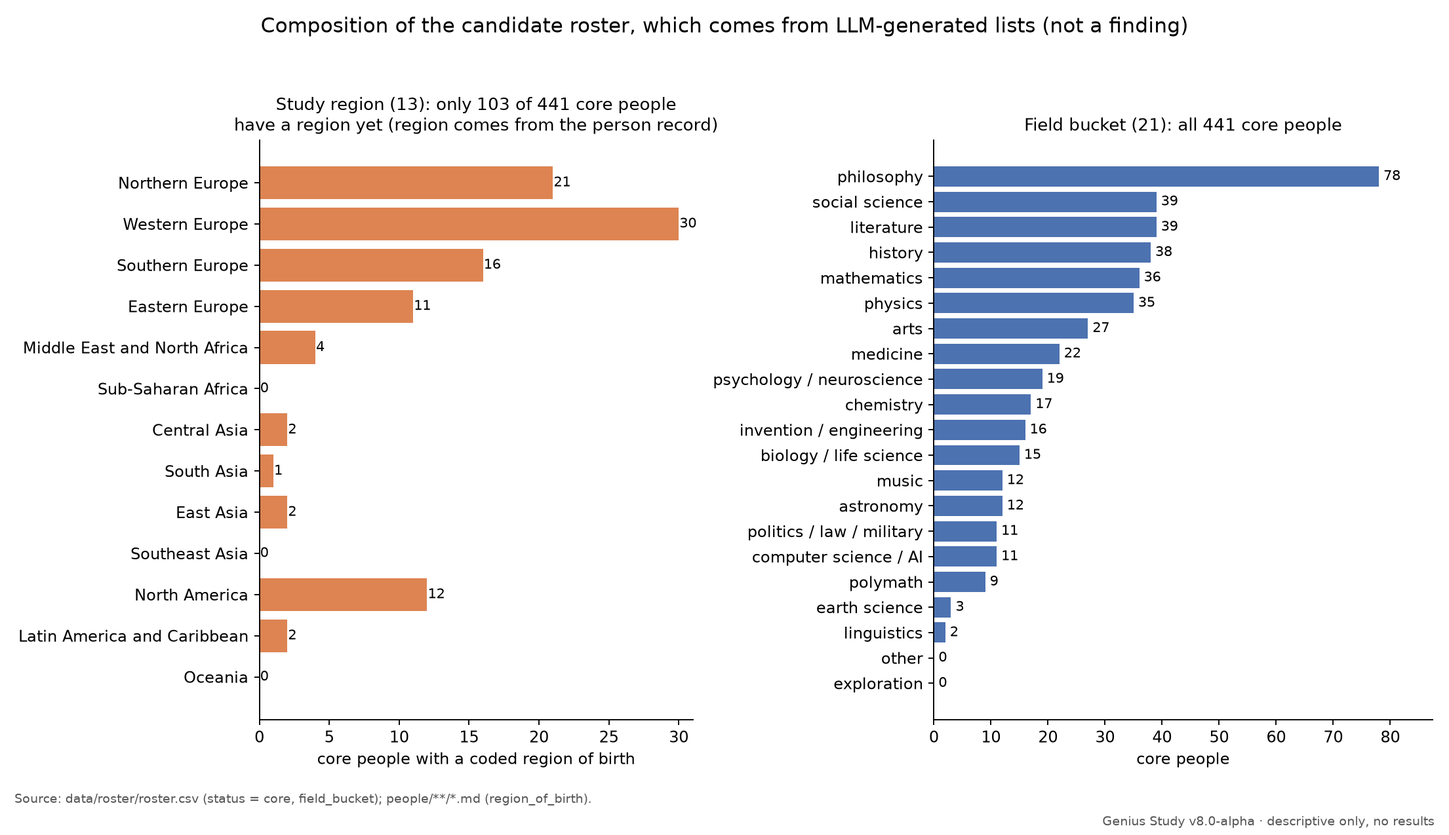
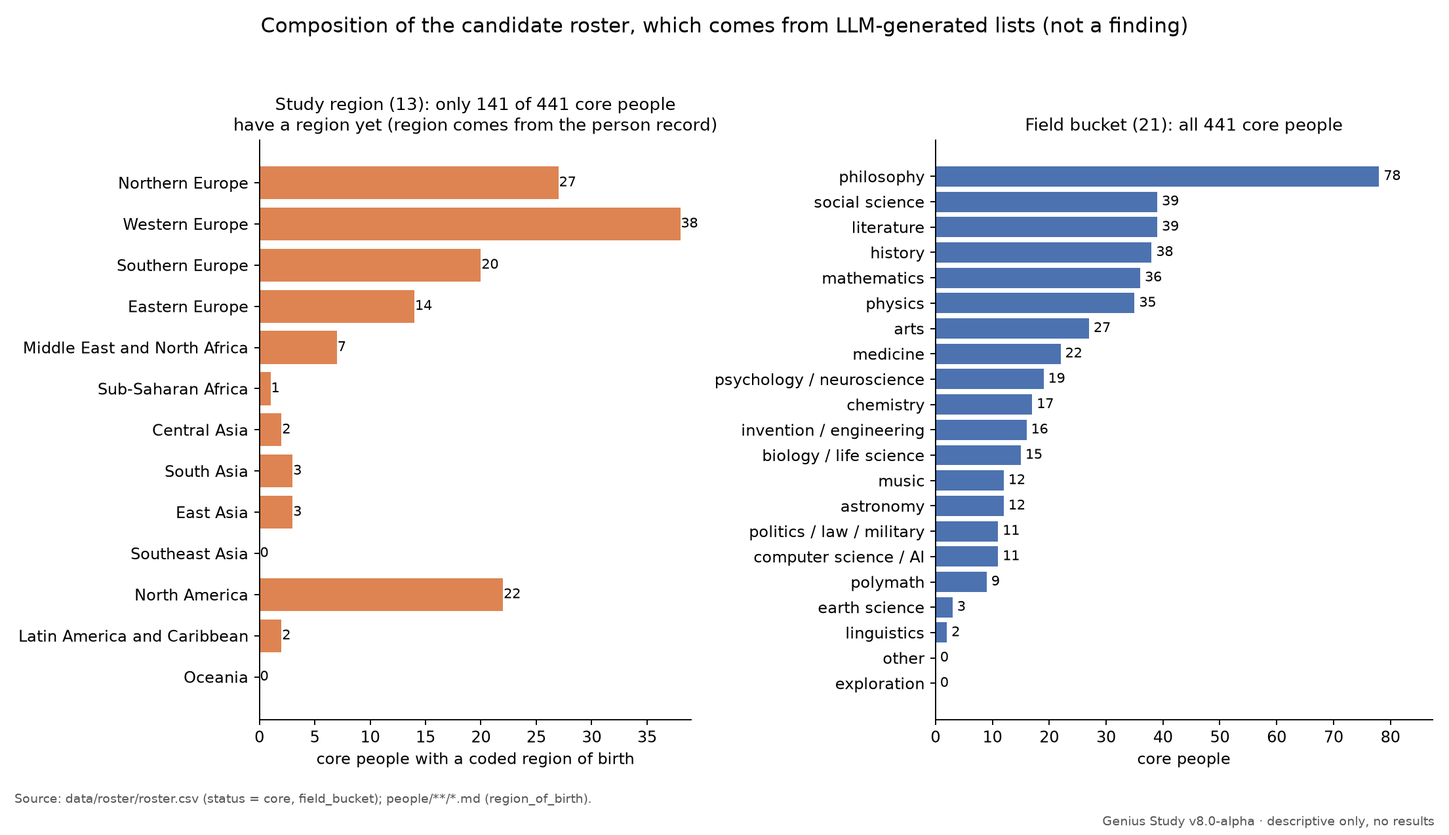
Chart refresh after batch Y (57 plotted, 86 not scorable; figures regenerated, no data change)

diff --git a/scripts/progress_status.py b/scripts/progress_status.py
@@ -38,7 +38,7 @@ AUDITS = ("9 blind lens runs on four batches: 3 on a 115-claim packet (eff4700),
 NEXT_STEPS = ("Stage 3 (everyone else with F ≥ 3) has started: the first 12 records (Spinoza, Descartes, Pascal, Leibniz, Kant, "
               "Hume, Darwin, Gauss, Riemann, Turing, Noether, von Neumann) are drafts that still need to apply P29 and P30 (the stage 3-b six "
               "follow P14–P28 on main; the stage 3-a six also still need P14–P28); the other 79 records follow P14–P28 (schema 1.3) and "
-              "P30's age rule, and their worldview.working_years now equals timing.major_work_period (P30 addendum); under P31 (continuity rule) all 55 values the span audit flagged stand; the strict-period alternative is in reports/period_rule_sensitivity.md; batch C (Wu, Lovelace, Smith, al-Farabi, al-Khwarizmi, Bell) is drafted in P32 order and its blind lens run is applied (P35, P36); batch D (Archimedes, Aristotle, McClintock, Russell, Debussy, Monet) is drafted and its blind audit is applied (P41); batch E (Dante, Euclid, Francis Bacon, Kahlo, Nietzsche, Dostoevsky) is drafted (P40) and its blind audit is applied; batch F (García Márquez, Hopper, Arendt, Poincaré, Hippocrates, Homer) is drafted (P42) and passed its blind audit (15/15 hold; fixes applied); batch G (Hypatia, Stravinsky, Bach, Locke) is drafted (P43) and passed its blind audit (13/13 hold; fixes applied); batch H (Marx, Tolstoy, Leonardo da Vinci, Beethoven) passed its blind audit (6 hold, 1 weaken; fixed); batch I (Wittgenstein, Maimonides, Michelangelo, Tesla) passed its blind audit (8 hold, 2 weaken; fixed); batch J (Omar Khayyam, Picasso, Plato, Raphael) passed its blind audit (10 hold, 3 weaken; fixed); batch K (Rembrandt, Rosalind Franklin, Salvador Dalí, Simone de Beauvoir) passed its blind audit (9 hold, 1 weaken; fixed); batch L (Socrates, Stephen Hawking, Thomas Edison, Tim Berners-Lee) passed its blind audit (10 hold, 1 weaken; fixed); batch M (Vincent van Gogh, Virginia Woolf, William Shakespeare, Wolfgang Amadeus Mozart) passed its blind audit (16 hold, 3 weaken; fixed; RQ1 gave the P42 will-preamble addendum); batch N (Andrew Wiles, Arthur Schopenhauer, B.F. Skinner, Carl Jung) passed its blind audit (17 hold, 5 weaken, 1 fail; fixed; RQ3 gave the P35 addendum on theories of mind and behaviour); batch O (Carl Sagan, Claude Shannon, Confucius, David Hilbert) passed its blind audit (19 hold, 3 weaken, 1 fail; fixed; RQ O1 and O2 gave the P42 and P16 addenda); the chart images were refreshed after batches M–O; batch P (Donald Knuth, Francis Crick, Franz Kafka, Galen) passed its blind audit (39 hold, 6 weaken, 0 fail; fixed; P1–P3 kept Knuth capped at 0.5, Galen B 3, Kafka BELOW_THRESHOLD); batch Q (Georg Wilhelm Friedrich Hegel, Georgia O'Keeffe, Henry Ford, Ibn Khaldun) passed its blind audit (43 hold, 4 weaken, 1 fail; fixed; Knuth span 1968–2023, Jason's call; Jason's ruling puts Hegel at B 2); batch R (Ibn Rushd (Averroes), Jacques Derrida, James Joyce, James Watson) passed its blind audit (39 hold, 4 weaken, 0 fail; fixed; R1 keeps Watson at 0.5: 'lifelong' does not lift the P1 cap); batch S (Jane Austen, Jane Goodall, Jean Piaget, Jean-Jacques Rousseau) passed its blind audit (43 hold, 4 weaken, 1 fail; fixed; S1 keeps Rousseau CHRIST, S2 adds the P42 addendum on adopted characters' words, S3 counts Austen's prayers at 0.5); batch T (Johann Wolfgang von Goethe, John Maynard Keynes, Jonas Salk, Leonhard Euler) is drafted and its blind audit is applied (rulings T1, T2, RQ-AU1); batch U (Martin Heidegger, Martin Luther King Jr., Michel Foucault, Miguel de Cervantes; Louis Pasteur already coded) passed its blind audit (38 hold, 6 weaken, 0 fail; fixed; U2 puts Cervantes BELOW_THRESHOLD; U1 on King's B and Kant's B 3 wait on Jason); batch V (Miles Davis, Milton Friedman, Nelson Mandela, Niccolò Machiavelli) passed its blind audit (42 hold, 6 weaken, 0 fail; fixed; V1 sets Mandela's B UNKNOWN, V2 and V3 keep Machiavelli and Davis as coded); batch W (Nicolaus Copernicus, Pythagoras, Richard Wagner, Roger Penrose; Paul Dirac already coded) passed its blind audit (35 hold, 5 weaken, 0 fail; fixed; W1 keeps Copernicus BELOW_THRESHOLD, W2 adds IDEAL as a lead for Wagner, W3 keeps Penrose ATHE at 0.5); batch X (Samuel Morse, Siddhartha Gautama, Sigmund Freud, Srinivasa Ramanujan) passed its blind audit (45 hold, 7 weaken, 0 fail; fixed; X1 keeps Morse's B BELOW_THRESHOLD, X2 keeps Gautama BELOW_THRESHOLD with BUDDH the lead, X3 makes Freud not a scientist, X4 keeps Ramanujan as coded; Pythagoras's era now UNKNOWN under a strict P39); batch Y (Steve Jobs, Sun Tzu, Terence Tao, Toni Morrison; Thomas Aquinas already coded), the last batch of this run, passed its blind audit (64 hold, 3 weaken, 0 fail; fixed; Y1 and Y2 keep Jobs and Morrison BELOW_THRESHOLD, Y3 makes Tao not a scientist; Sun Tzu's era now UNKNOWN); chart images not yet refreshed; next in order after rank 136: Virgil, Ada Yonath, Akira Kurosawa, Al-Biruni; systems were sourced in batches of six in v7.1 number order "
+              "P30's age rule, and their worldview.working_years now equals timing.major_work_period (P30 addendum); under P31 (continuity rule) all 55 values the span audit flagged stand; the strict-period alternative is in reports/period_rule_sensitivity.md; batch C (Wu, Lovelace, Smith, al-Farabi, al-Khwarizmi, Bell) is drafted in P32 order and its blind lens run is applied (P35, P36); batch D (Archimedes, Aristotle, McClintock, Russell, Debussy, Monet) is drafted and its blind audit is applied (P41); batch E (Dante, Euclid, Francis Bacon, Kahlo, Nietzsche, Dostoevsky) is drafted (P40) and its blind audit is applied; batch F (García Márquez, Hopper, Arendt, Poincaré, Hippocrates, Homer) is drafted (P42) and passed its blind audit (15/15 hold; fixes applied); batch G (Hypatia, Stravinsky, Bach, Locke) is drafted (P43) and passed its blind audit (13/13 hold; fixes applied); batch H (Marx, Tolstoy, Leonardo da Vinci, Beethoven) passed its blind audit (6 hold, 1 weaken; fixed); batch I (Wittgenstein, Maimonides, Michelangelo, Tesla) passed its blind audit (8 hold, 2 weaken; fixed); batch J (Omar Khayyam, Picasso, Plato, Raphael) passed its blind audit (10 hold, 3 weaken; fixed); batch K (Rembrandt, Rosalind Franklin, Salvador Dalí, Simone de Beauvoir) passed its blind audit (9 hold, 1 weaken; fixed); batch L (Socrates, Stephen Hawking, Thomas Edison, Tim Berners-Lee) passed its blind audit (10 hold, 1 weaken; fixed); batch M (Vincent van Gogh, Virginia Woolf, William Shakespeare, Wolfgang Amadeus Mozart) passed its blind audit (16 hold, 3 weaken; fixed; RQ1 gave the P42 will-preamble addendum); batch N (Andrew Wiles, Arthur Schopenhauer, B.F. Skinner, Carl Jung) passed its blind audit (17 hold, 5 weaken, 1 fail; fixed; RQ3 gave the P35 addendum on theories of mind and behaviour); batch O (Carl Sagan, Claude Shannon, Confucius, David Hilbert) passed its blind audit (19 hold, 3 weaken, 1 fail; fixed; RQ O1 and O2 gave the P42 and P16 addenda); the chart images were refreshed after batches M–O; batch P (Donald Knuth, Francis Crick, Franz Kafka, Galen) passed its blind audit (39 hold, 6 weaken, 0 fail; fixed; P1–P3 kept Knuth capped at 0.5, Galen B 3, Kafka BELOW_THRESHOLD); batch Q (Georg Wilhelm Friedrich Hegel, Georgia O'Keeffe, Henry Ford, Ibn Khaldun) passed its blind audit (43 hold, 4 weaken, 1 fail; fixed; Knuth span 1968–2023, Jason's call; Jason's ruling puts Hegel at B 2); batch R (Ibn Rushd (Averroes), Jacques Derrida, James Joyce, James Watson) passed its blind audit (39 hold, 4 weaken, 0 fail; fixed; R1 keeps Watson at 0.5: 'lifelong' does not lift the P1 cap); batch S (Jane Austen, Jane Goodall, Jean Piaget, Jean-Jacques Rousseau) passed its blind audit (43 hold, 4 weaken, 1 fail; fixed; S1 keeps Rousseau CHRIST, S2 adds the P42 addendum on adopted characters' words, S3 counts Austen's prayers at 0.5); batch T (Johann Wolfgang von Goethe, John Maynard Keynes, Jonas Salk, Leonhard Euler) is drafted and its blind audit is applied (rulings T1, T2, RQ-AU1); batch U (Martin Heidegger, Martin Luther King Jr., Michel Foucault, Miguel de Cervantes; Louis Pasteur already coded) passed its blind audit (38 hold, 6 weaken, 0 fail; fixed; U2 puts Cervantes BELOW_THRESHOLD; U1 on King's B and Kant's B 3 wait on Jason); batch V (Miles Davis, Milton Friedman, Nelson Mandela, Niccolò Machiavelli) passed its blind audit (42 hold, 6 weaken, 0 fail; fixed; V1 sets Mandela's B UNKNOWN, V2 and V3 keep Machiavelli and Davis as coded); batch W (Nicolaus Copernicus, Pythagoras, Richard Wagner, Roger Penrose; Paul Dirac already coded) passed its blind audit (35 hold, 5 weaken, 0 fail; fixed; W1 keeps Copernicus BELOW_THRESHOLD, W2 adds IDEAL as a lead for Wagner, W3 keeps Penrose ATHE at 0.5); batch X (Samuel Morse, Siddhartha Gautama, Sigmund Freud, Srinivasa Ramanujan) passed its blind audit (45 hold, 7 weaken, 0 fail; fixed; X1 keeps Morse's B BELOW_THRESHOLD, X2 keeps Gautama BELOW_THRESHOLD with BUDDH the lead, X3 makes Freud not a scientist, X4 keeps Ramanujan as coded; Pythagoras's era now UNKNOWN under a strict P39); batch Y (Steve Jobs, Sun Tzu, Terence Tao, Toni Morrison; Thomas Aquinas already coded), the last batch of this run, passed its blind audit (64 hold, 3 weaken, 0 fail; fixed; Y1 and Y2 keep Jobs and Morrison BELOW_THRESHOLD, Y3 makes Tao not a scientist; Sun Tzu's era now UNKNOWN); the chart images were refreshed after batch Y (57 plotted, 86 not scorable); next in order after rank 136: Virgil, Ada Yonath, Akira Kurosawa, Al-Biruni; systems were sourced in batches of six in v7.1 number order "
               "(S1 passed its blind audit, 5 hold, 2 weaken; fixed under P44; S2 passed its blind audit, 9 hold, 1 weaken; fixed; S3 passed its blind audit, 10 hold, 1 weaken; fixed; S4 passed its blind audit, 11 hold, 1 weaken; fixed; S5 passed its blind audit, 13/13 hold; follow-ups applied; S6 passed its blind audit, 14 hold, 1 weaken; fixed; S7 passed its blind audit, 13 hold, 3 weaken; fixed "
               "(P44(e)); S8 passed audit with fixes (SHINTO B, HINDU C, HELLEN and KEMET re-sourced under P45(a)); S9 passed audit with fixes (RODNOV A and BON A, B to UNKNOWN; P46 added); S10 passed audit with fixes (VODUN scope, ANTHRO D 1, quote-backed P46 checks); S11 passed audit with fixes (THEOS B 3; summary-only sources are leads); S12 passed audit with fixes (P45(b) amended; RAEL stays sourced). Systems pass complete: all 77 worked in batches S1–S12, every batch blind-audited with fixes applied; 66 sourced, 10 sourced but unscored (P46), 1 stub (4THWAY, until a full text is read)); the revised rubric has not started")
 

diff --git a/README.md b/README.md
@@ -22,7 +22,7 @@ A study of where remembered genius sits on a scale of lawful, non-intervening or
 | Decisions settled | 61 / 61 |
 | Audits | 9 blind lens runs on four batches: 3 on a 115-claim packet (eff4700), 2 on a 147-claim packet (e648145), 2 on a 124-claim packet (d9903b7/43cecc4; fixes at 6f37cd6) and 2 on a 165-claim packet (b21655b; run 1 155 hold / 10 weaken, run 2 160 hold / 5 weaken, 0 wrong; agreement 156/165, κ 0.37; fixes applied at 3bcd59c); see [reports/audit_2026-10-02.md](reports/audit_2026-10-02.md). Stage 3: 4 blind runs on the first 12 records (stage 3-a: 561 claims at 59a8371; stage 3-b: 420 claims at 3db6511); their method rulings are decisions P14–P28; one blind run on the stage 3-b rulings (93 claims at 6155174: 88 hold, 4 weaken, 1 fail, fixed at 4c10399) gave P29; lens's runs on the v8.a rulings packet (34a73c4) and the v8.b P29 packet (e930597) gave P30; the P30 span-alignment audit (7a52a3f) gave P31; one blind run on stage 3 batch C (14 claims at dd91009: 8 hold, 6 weaken, 0 fail; no second run needed under P30 #16) gave P35 and P36; one blind run on batch D (16 claims at 3f4817e: 14 hold, 2 weaken, 0 fail) gave P41, and one on batch E (18 claims at 2332880: 17 hold, 1 weaken, 0 fail); their fixes are applied; one on batch F (15 claims at 64605bd: 15 hold, 0 weaken, 0 fail) passed; its fixes are applied; one on batch G (13 claims at 5ff29b4: 13 hold, 0 weaken, 0 fail) passed and gave P43 (Jason's ruling on RQ1); its fixes are applied. Batch H (Marx, Tolstoy, Leonardo da Vinci, Beethoven; 7 claims at cae9cb2: 6 hold, 1 weaken, 0 fail) passed and extended P41 to miracle rejection; its fixes are applied; batch I (Wittgenstein, Maimonides, Michelangelo, Tesla; 10 claims at bbb26f8: 8 hold, 2 weaken, 0 fail) passed; its fixes are applied; batch J (Omar Khayyam, Picasso, Plato, Raphael; 13 claims at 81b9098: 10 hold, 3 weaken, 0 fail) passed; its fixes are applied; batch K (Rembrandt, Rosalind Franklin, Salvador Dalí, Simone de Beauvoir; 10 claims at 2d75649: 9 hold, 1 weaken, 0 fail) passed; its fixes are applied; batch L (Socrates, Stephen Hawking, Thomas Edison, Tim Berners-Lee; 11 claims at 2742382: 10 hold, 1 weaken, 0 fail) passed; its fixes are applied at 55d6956; all of batches H–L have passed their audits with fixes applied; batch M (Vincent van Gogh, Virginia Woolf, William Shakespeare, Wolfgang Amadeus Mozart; 19 claims at 159d60d: 16 hold, 3 weaken, 0 fail) passed; its fixes are applied, and v8's ruling on its RQ1 (on the auditor's advice) added the P42 will-preamble addendum; batch N (Andrew Wiles, Arthur Schopenhauer, B.F. Skinner, Carl Jung; 23 claims at 041f54b: 17 hold, 5 weaken, 1 fail) passed; its fixes are applied, and v8's rulings on its RQ1–RQ3 (on the auditor's advice) set Schopenhauer's B 3 and Skinner's B 4 and added the P35 addendum on theories of mind and behaviour; batch O (Carl Sagan, Claude Shannon, Confucius, David Hilbert; 23 claims at ee3d463: 19 hold, 3 weaken, 1 fail) passed; its fixes are applied, and v8's rulings on its RQ O1 and O2 (on the auditor's advice) added the P42 addendum on disciples' records of sayings and the P16 addendum on a general remark on lawful nature; batch P (Donald Knuth, Francis Crick, Franz Kafka, Galen; 45 claims at 08be43b: 39 hold, 6 weaken, 0 fail) passed; its fixes are applied, and v8's picks on its P1–P3 (on the auditor's advice) cap Knuth's post-span evidence at 0.5 rather than excluding it, keep Galen's B 3 at 0.5 and keep Kafka BELOW_THRESHOLD; batch Q (Georg Wilhelm Friedrich Hegel, Georgia O'Keeffe, Henry Ford, Ibn Khaldun; 48 claims at 0b3023d: 43 hold, 4 weaken, 1 fail) passed; its fixes are applied, the Knuth span is 1968–2023 under P30 addendum d (Jason's call), and Jason's ruling on its RQ Q1 gives Hegel B 2 at 0.5 (Encyclopaedia §§248, 250); batch R (Ibn Rushd (Averroes), Jacques Derrida, James Joyce, James Watson; 43 claims at 0454445: 39 hold, 4 weaken, 0 fail) passed; its fixes are applied, and v8's call on its RQ R1 (on the auditor's advice) keeps Watson's post-span 'lifelong atheist' at the P1 cap of 0.5; batch S (Jane Austen, Jane Goodall, Jean Piaget, Jean-Jacques Rousseau; 48 claims at c5d448a: 43 hold, 4 weaken, 1 fail) passed with fixes applied; v8's calls on its RQ S1–S3 (on the auditor's advice) keep Rousseau CHRIST under P27, add the P42 addendum on a character's words adopted in the author's own voice (Rousseau stays at 0.7), and count Austen's prayers under P42 at 0.5 (A 0; she stays unplotted, B UNKNOWN); under P30 #16 its FAIL calls for a second blind run |
 | Latest tag | `v8.0-alpha` (prerelease) |
-| Next steps | Stage 3 (everyone else with F ≥ 3) has started: the first 12 records (Spinoza, Descartes, Pascal, Leibniz, Kant, Hume, Darwin, Gauss, Riemann, Turing, Noether, von Neumann) are drafts that still need to apply P29 and P30 (the stage 3-b six follow P14–P28 on main; the stage 3-a six also still need P14–P28); the other 79 records follow P14–P28 (schema 1.3) and P30's age rule, and their worldview.working_years now equals timing.major_work_period (P30 addendum); under P31 (continuity rule) all 55 values the span audit flagged stand; the strict-period alternative is in reports/period_rule_sensitivity.md; batch C (Wu, Lovelace, Smith, al-Farabi, al-Khwarizmi, Bell) is drafted in P32 order and its blind lens run is applied (P35, P36); batch D (Archimedes, Aristotle, McClintock, Russell, Debussy, Monet) is drafted and its blind audit is applied (P41); batch E (Dante, Euclid, Francis Bacon, Kahlo, Nietzsche, Dostoevsky) is drafted (P40) and its blind audit is applied; batch F (García Márquez, Hopper, Arendt, Poincaré, Hippocrates, Homer) is drafted (P42) and passed its blind audit (15/15 hold; fixes applied); batch G (Hypatia, Stravinsky, Bach, Locke) is drafted (P43) and passed its blind audit (13/13 hold; fixes applied); batch H (Marx, Tolstoy, Leonardo da Vinci, Beethoven) passed its blind audit (6 hold, 1 weaken; fixed); batch I (Wittgenstein, Maimonides, Michelangelo, Tesla) passed its blind audit (8 hold, 2 weaken; fixed); batch J (Omar Khayyam, Picasso, Plato, Raphael) passed its blind audit (10 hold, 3 weaken; fixed); batch K (Rembrandt, Rosalind Franklin, Salvador Dalí, Simone de Beauvoir) passed its blind audit (9 hold, 1 weaken; fixed); batch L (Socrates, Stephen Hawking, Thomas Edison, Tim Berners-Lee) passed its blind audit (10 hold, 1 weaken; fixed); batch M (Vincent van Gogh, Virginia Woolf, William Shakespeare, Wolfgang Amadeus Mozart) passed its blind audit (16 hold, 3 weaken; fixed; RQ1 gave the P42 will-preamble addendum); batch N (Andrew Wiles, Arthur Schopenhauer, B.F. Skinner, Carl Jung) passed its blind audit (17 hold, 5 weaken, 1 fail; fixed; RQ3 gave the P35 addendum on theories of mind and behaviour); batch O (Carl Sagan, Claude Shannon, Confucius, David Hilbert) passed its blind audit (19 hold, 3 weaken, 1 fail; fixed; RQ O1 and O2 gave the P42 and P16 addenda); the chart images were refreshed after batches M–O; batch P (Donald Knuth, Francis Crick, Franz Kafka, Galen) passed its blind audit (39 hold, 6 weaken, 0 fail; fixed; P1–P3 kept Knuth capped at 0.5, Galen B 3, Kafka BELOW_THRESHOLD); batch Q (Georg Wilhelm Friedrich Hegel, Georgia O'Keeffe, Henry Ford, Ibn Khaldun) passed its blind audit (43 hold, 4 weaken, 1 fail; fixed; Knuth span 1968–2023, Jason's call; Jason's ruling puts Hegel at B 2); batch R (Ibn Rushd (Averroes), Jacques Derrida, James Joyce, James Watson) passed its blind audit (39 hold, 4 weaken, 0 fail; fixed; R1 keeps Watson at 0.5: 'lifelong' does not lift the P1 cap); batch S (Jane Austen, Jane Goodall, Jean Piaget, Jean-Jacques Rousseau) passed its blind audit (43 hold, 4 weaken, 1 fail; fixed; S1 keeps Rousseau CHRIST, S2 adds the P42 addendum on adopted characters' words, S3 counts Austen's prayers at 0.5); batch T (Johann Wolfgang von Goethe, John Maynard Keynes, Jonas Salk, Leonhard Euler) is drafted and its blind audit is applied (rulings T1, T2, RQ-AU1); batch U (Martin Heidegger, Martin Luther King Jr., Michel Foucault, Miguel de Cervantes; Louis Pasteur already coded) passed its blind audit (38 hold, 6 weaken, 0 fail; fixed; U2 puts Cervantes BELOW_THRESHOLD; U1 on King's B and Kant's B 3 wait on Jason); batch V (Miles Davis, Milton Friedman, Nelson Mandela, Niccolò Machiavelli) passed its blind audit (42 hold, 6 weaken, 0 fail; fixed; V1 sets Mandela's B UNKNOWN, V2 and V3 keep Machiavelli and Davis as coded); batch W (Nicolaus Copernicus, Pythagoras, Richard Wagner, Roger Penrose; Paul Dirac already coded) passed its blind audit (35 hold, 5 weaken, 0 fail; fixed; W1 keeps Copernicus BELOW_THRESHOLD, W2 adds IDEAL as a lead for Wagner, W3 keeps Penrose ATHE at 0.5); batch X (Samuel Morse, Siddhartha Gautama, Sigmund Freud, Srinivasa Ramanujan) passed its blind audit (45 hold, 7 weaken, 0 fail; fixed; X1 keeps Morse's B BELOW_THRESHOLD, X2 keeps Gautama BELOW_THRESHOLD with BUDDH the lead, X3 makes Freud not a scientist, X4 keeps Ramanujan as coded; Pythagoras's era now UNKNOWN under a strict P39); batch Y (Steve Jobs, Sun Tzu, Terence Tao, Toni Morrison; Thomas Aquinas already coded), the last batch of this run, passed its blind audit (64 hold, 3 weaken, 0 fail; fixed; Y1 and Y2 keep Jobs and Morrison BELOW_THRESHOLD, Y3 makes Tao not a scientist; Sun Tzu's era now UNKNOWN); chart images not yet refreshed; next in order after rank 136: Virgil, Ada Yonath, Akira Kurosawa, Al-Biruni; systems were sourced in batches of six in v7.1 number order (S1 passed its blind audit, 5 hold, 2 weaken; fixed under P44; S2 passed its blind audit, 9 hold, 1 weaken; fixed; S3 passed its blind audit, 10 hold, 1 weaken; fixed; S4 passed its blind audit, 11 hold, 1 weaken; fixed; S5 passed its blind audit, 13/13 hold; follow-ups applied; S6 passed its blind audit, 14 hold, 1 weaken; fixed; S7 passed its blind audit, 13 hold, 3 weaken; fixed (P44(e)); S8 passed audit with fixes (SHINTO B, HINDU C, HELLEN and KEMET re-sourced under P45(a)); S9 passed audit with fixes (RODNOV A and BON A, B to UNKNOWN; P46 added); S10 passed audit with fixes (VODUN scope, ANTHRO D 1, quote-backed P46 checks); S11 passed audit with fixes (THEOS B 3; summary-only sources are leads); S12 passed audit with fixes (P45(b) amended; RAEL stays sourced). Systems pass complete: all 77 worked in batches S1–S12, every batch blind-audited with fixes applied; 66 sourced, 10 sourced but unscored (P46), 1 stub (4THWAY, until a full text is read)); the revised rubric has not started |
+| Next steps | Stage 3 (everyone else with F ≥ 3) has started: the first 12 records (Spinoza, Descartes, Pascal, Leibniz, Kant, Hume, Darwin, Gauss, Riemann, Turing, Noether, von Neumann) are drafts that still need to apply P29 and P30 (the stage 3-b six follow P14–P28 on main; the stage 3-a six also still need P14–P28); the other 79 records follow P14–P28 (schema 1.3) and P30's age rule, and their worldview.working_years now equals timing.major_work_period (P30 addendum); under P31 (continuity rule) all 55 values the span audit flagged stand; the strict-period alternative is in reports/period_rule_sensitivity.md; batch C (Wu, Lovelace, Smith, al-Farabi, al-Khwarizmi, Bell) is drafted in P32 order and its blind lens run is applied (P35, P36); batch D (Archimedes, Aristotle, McClintock, Russell, Debussy, Monet) is drafted and its blind audit is applied (P41); batch E (Dante, Euclid, Francis Bacon, Kahlo, Nietzsche, Dostoevsky) is drafted (P40) and its blind audit is applied; batch F (García Márquez, Hopper, Arendt, Poincaré, Hippocrates, Homer) is drafted (P42) and passed its blind audit (15/15 hold; fixes applied); batch G (Hypatia, Stravinsky, Bach, Locke) is drafted (P43) and passed its blind audit (13/13 hold; fixes applied); batch H (Marx, Tolstoy, Leonardo da Vinci, Beethoven) passed its blind audit (6 hold, 1 weaken; fixed); batch I (Wittgenstein, Maimonides, Michelangelo, Tesla) passed its blind audit (8 hold, 2 weaken; fixed); batch J (Omar Khayyam, Picasso, Plato, Raphael) passed its blind audit (10 hold, 3 weaken; fixed); batch K (Rembrandt, Rosalind Franklin, Salvador Dalí, Simone de Beauvoir) passed its blind audit (9 hold, 1 weaken; fixed); batch L (Socrates, Stephen Hawking, Thomas Edison, Tim Berners-Lee) passed its blind audit (10 hold, 1 weaken; fixed); batch M (Vincent van Gogh, Virginia Woolf, William Shakespeare, Wolfgang Amadeus Mozart) passed its blind audit (16 hold, 3 weaken; fixed; RQ1 gave the P42 will-preamble addendum); batch N (Andrew Wiles, Arthur Schopenhauer, B.F. Skinner, Carl Jung) passed its blind audit (17 hold, 5 weaken, 1 fail; fixed; RQ3 gave the P35 addendum on theories of mind and behaviour); batch O (Carl Sagan, Claude Shannon, Confucius, David Hilbert) passed its blind audit (19 hold, 3 weaken, 1 fail; fixed; RQ O1 and O2 gave the P42 and P16 addenda); the chart images were refreshed after batches M–O; batch P (Donald Knuth, Francis Crick, Franz Kafka, Galen) passed its blind audit (39 hold, 6 weaken, 0 fail; fixed; P1–P3 kept Knuth capped at 0.5, Galen B 3, Kafka BELOW_THRESHOLD); batch Q (Georg Wilhelm Friedrich Hegel, Georgia O'Keeffe, Henry Ford, Ibn Khaldun) passed its blind audit (43 hold, 4 weaken, 1 fail; fixed; Knuth span 1968–2023, Jason's call; Jason's ruling puts Hegel at B 2); batch R (Ibn Rushd (Averroes), Jacques Derrida, James Joyce, James Watson) passed its blind audit (39 hold, 4 weaken, 0 fail; fixed; R1 keeps Watson at 0.5: 'lifelong' does not lift the P1 cap); batch S (Jane Austen, Jane Goodall, Jean Piaget, Jean-Jacques Rousseau) passed its blind audit (43 hold, 4 weaken, 1 fail; fixed; S1 keeps Rousseau CHRIST, S2 adds the P42 addendum on adopted characters' words, S3 counts Austen's prayers at 0.5); batch T (Johann Wolfgang von Goethe, John Maynard Keynes, Jonas Salk, Leonhard Euler) is drafted and its blind audit is applied (rulings T1, T2, RQ-AU1); batch U (Martin Heidegger, Martin Luther King Jr., Michel Foucault, Miguel de Cervantes; Louis Pasteur already coded) passed its blind audit (38 hold, 6 weaken, 0 fail; fixed; U2 puts Cervantes BELOW_THRESHOLD; U1 on King's B and Kant's B 3 wait on Jason); batch V (Miles Davis, Milton Friedman, Nelson Mandela, Niccolò Machiavelli) passed its blind audit (42 hold, 6 weaken, 0 fail; fixed; V1 sets Mandela's B UNKNOWN, V2 and V3 keep Machiavelli and Davis as coded); batch W (Nicolaus Copernicus, Pythagoras, Richard Wagner, Roger Penrose; Paul Dirac already coded) passed its blind audit (35 hold, 5 weaken, 0 fail; fixed; W1 keeps Copernicus BELOW_THRESHOLD, W2 adds IDEAL as a lead for Wagner, W3 keeps Penrose ATHE at 0.5); batch X (Samuel Morse, Siddhartha Gautama, Sigmund Freud, Srinivasa Ramanujan) passed its blind audit (45 hold, 7 weaken, 0 fail; fixed; X1 keeps Morse's B BELOW_THRESHOLD, X2 keeps Gautama BELOW_THRESHOLD with BUDDH the lead, X3 makes Freud not a scientist, X4 keeps Ramanujan as coded; Pythagoras's era now UNKNOWN under a strict P39); batch Y (Steve Jobs, Sun Tzu, Terence Tao, Toni Morrison; Thomas Aquinas already coded), the last batch of this run, passed its blind audit (64 hold, 3 weaken, 0 fail; fixed; Y1 and Y2 keep Jobs and Morrison BELOW_THRESHOLD, Y3 makes Tao not a scientist; Sun Tzu's era now UNKNOWN); the chart images were refreshed after batch Y (57 plotted, 86 not scorable); next in order after rank 136: Virgil, Ada Yonath, Akira Kurosawa, Al-Biruni; systems were sourced in batches of six in v7.1 number order (S1 passed its blind audit, 5 hold, 2 weaken; fixed under P44; S2 passed its blind audit, 9 hold, 1 weaken; fixed; S3 passed its blind audit, 10 hold, 1 weaken; fixed; S4 passed its blind audit, 11 hold, 1 weaken; fixed; S5 passed its blind audit, 13/13 hold; follow-ups applied; S6 passed its blind audit, 14 hold, 1 weaken; fixed; S7 passed its blind audit, 13 hold, 3 weaken; fixed (P44(e)); S8 passed audit with fixes (SHINTO B, HINDU C, HELLEN and KEMET re-sourced under P45(a)); S9 passed audit with fixes (RODNOV A and BON A, B to UNKNOWN; P46 added); S10 passed audit with fixes (VODUN scope, ANTHRO D 1, quote-backed P46 checks); S11 passed audit with fixes (THEOS B 3; summary-only sources are leads); S12 passed audit with fixes (P45(b) amended; RAEL stays sourced). Systems pass complete: all 77 worked in batches S1–S12, every batch blind-audited with fixes applied; 66 sourced, 10 sourced but unscored (P46), 1 stub (4THWAY, until a full text is read)); the revised rubric has not started |
 
 <!-- END GENERATED: progress -->
 

diff --git a/CHANGELOG.md b/CHANGELOG.md
@@ -594,6 +594,8 @@ Sourced drafts of the systems the first-pool people are most likely to be coded 
   - Morrison: ruling Y2: primary_system stays BELOW_THRESHOLD, CHRIST the lead (recorded under P43).
   - Not applied, on instruction: RQ U1 (King) and TF7 (Kant B 3) still wait on Jason.
 
+- **2026-10-19, chart refresh after batch Y** (the one refresh planned for this run): make_figures re-run on the batch Y audit fixes. people_cause_locus.png, people_systems_overlay.png and core_by_region_field.png changed; systems_cause_locus.png, systems_axes.png and roster_list_overlap.png are unchanged byte for byte. Checked by eye: 57 people plotted, 86 not scorable (26 no A_locus, 15 no B_cause, 45 neither); 22 systems with both axes settled. The README caption (generated) agrees; 'chart images not yet refreshed' dropped from the progress note. No data changes. King U1 and Kant B 3 still held.
+
 ## v7.1 (2026-09-14 data freeze)
 
 - Published in [neuresthetics_v7](https://github.com/neuresthetics/neuresthetics_v7).
